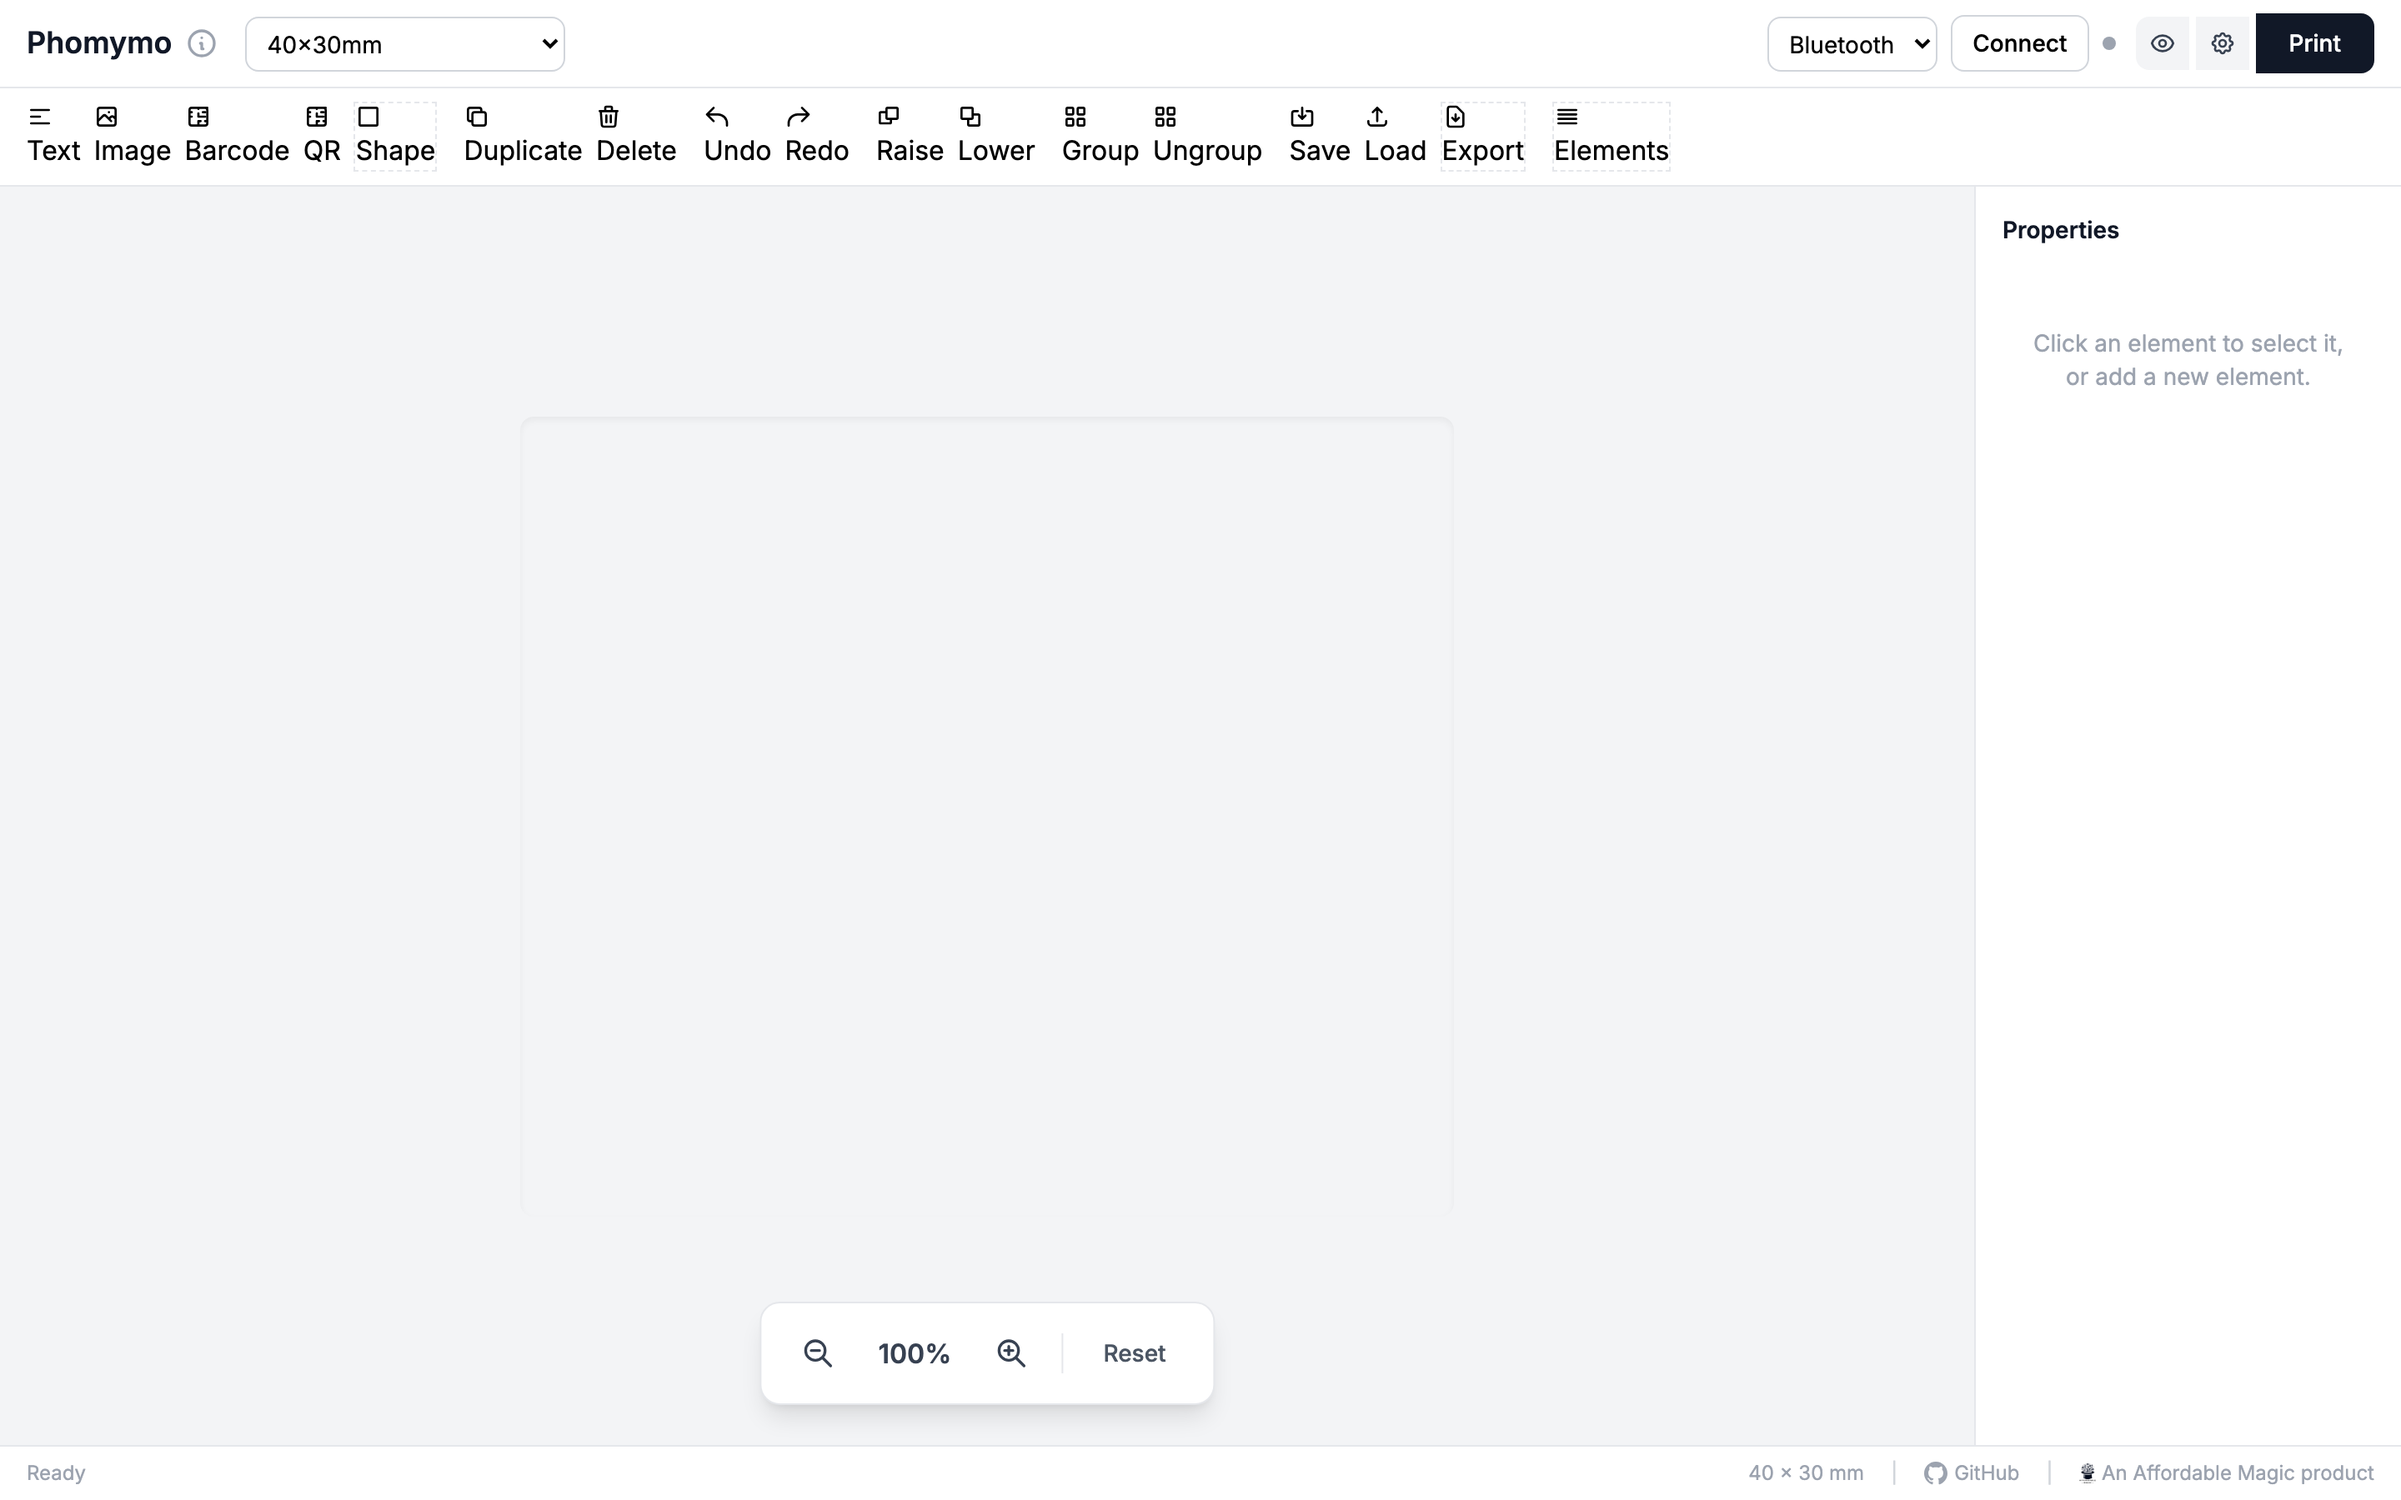
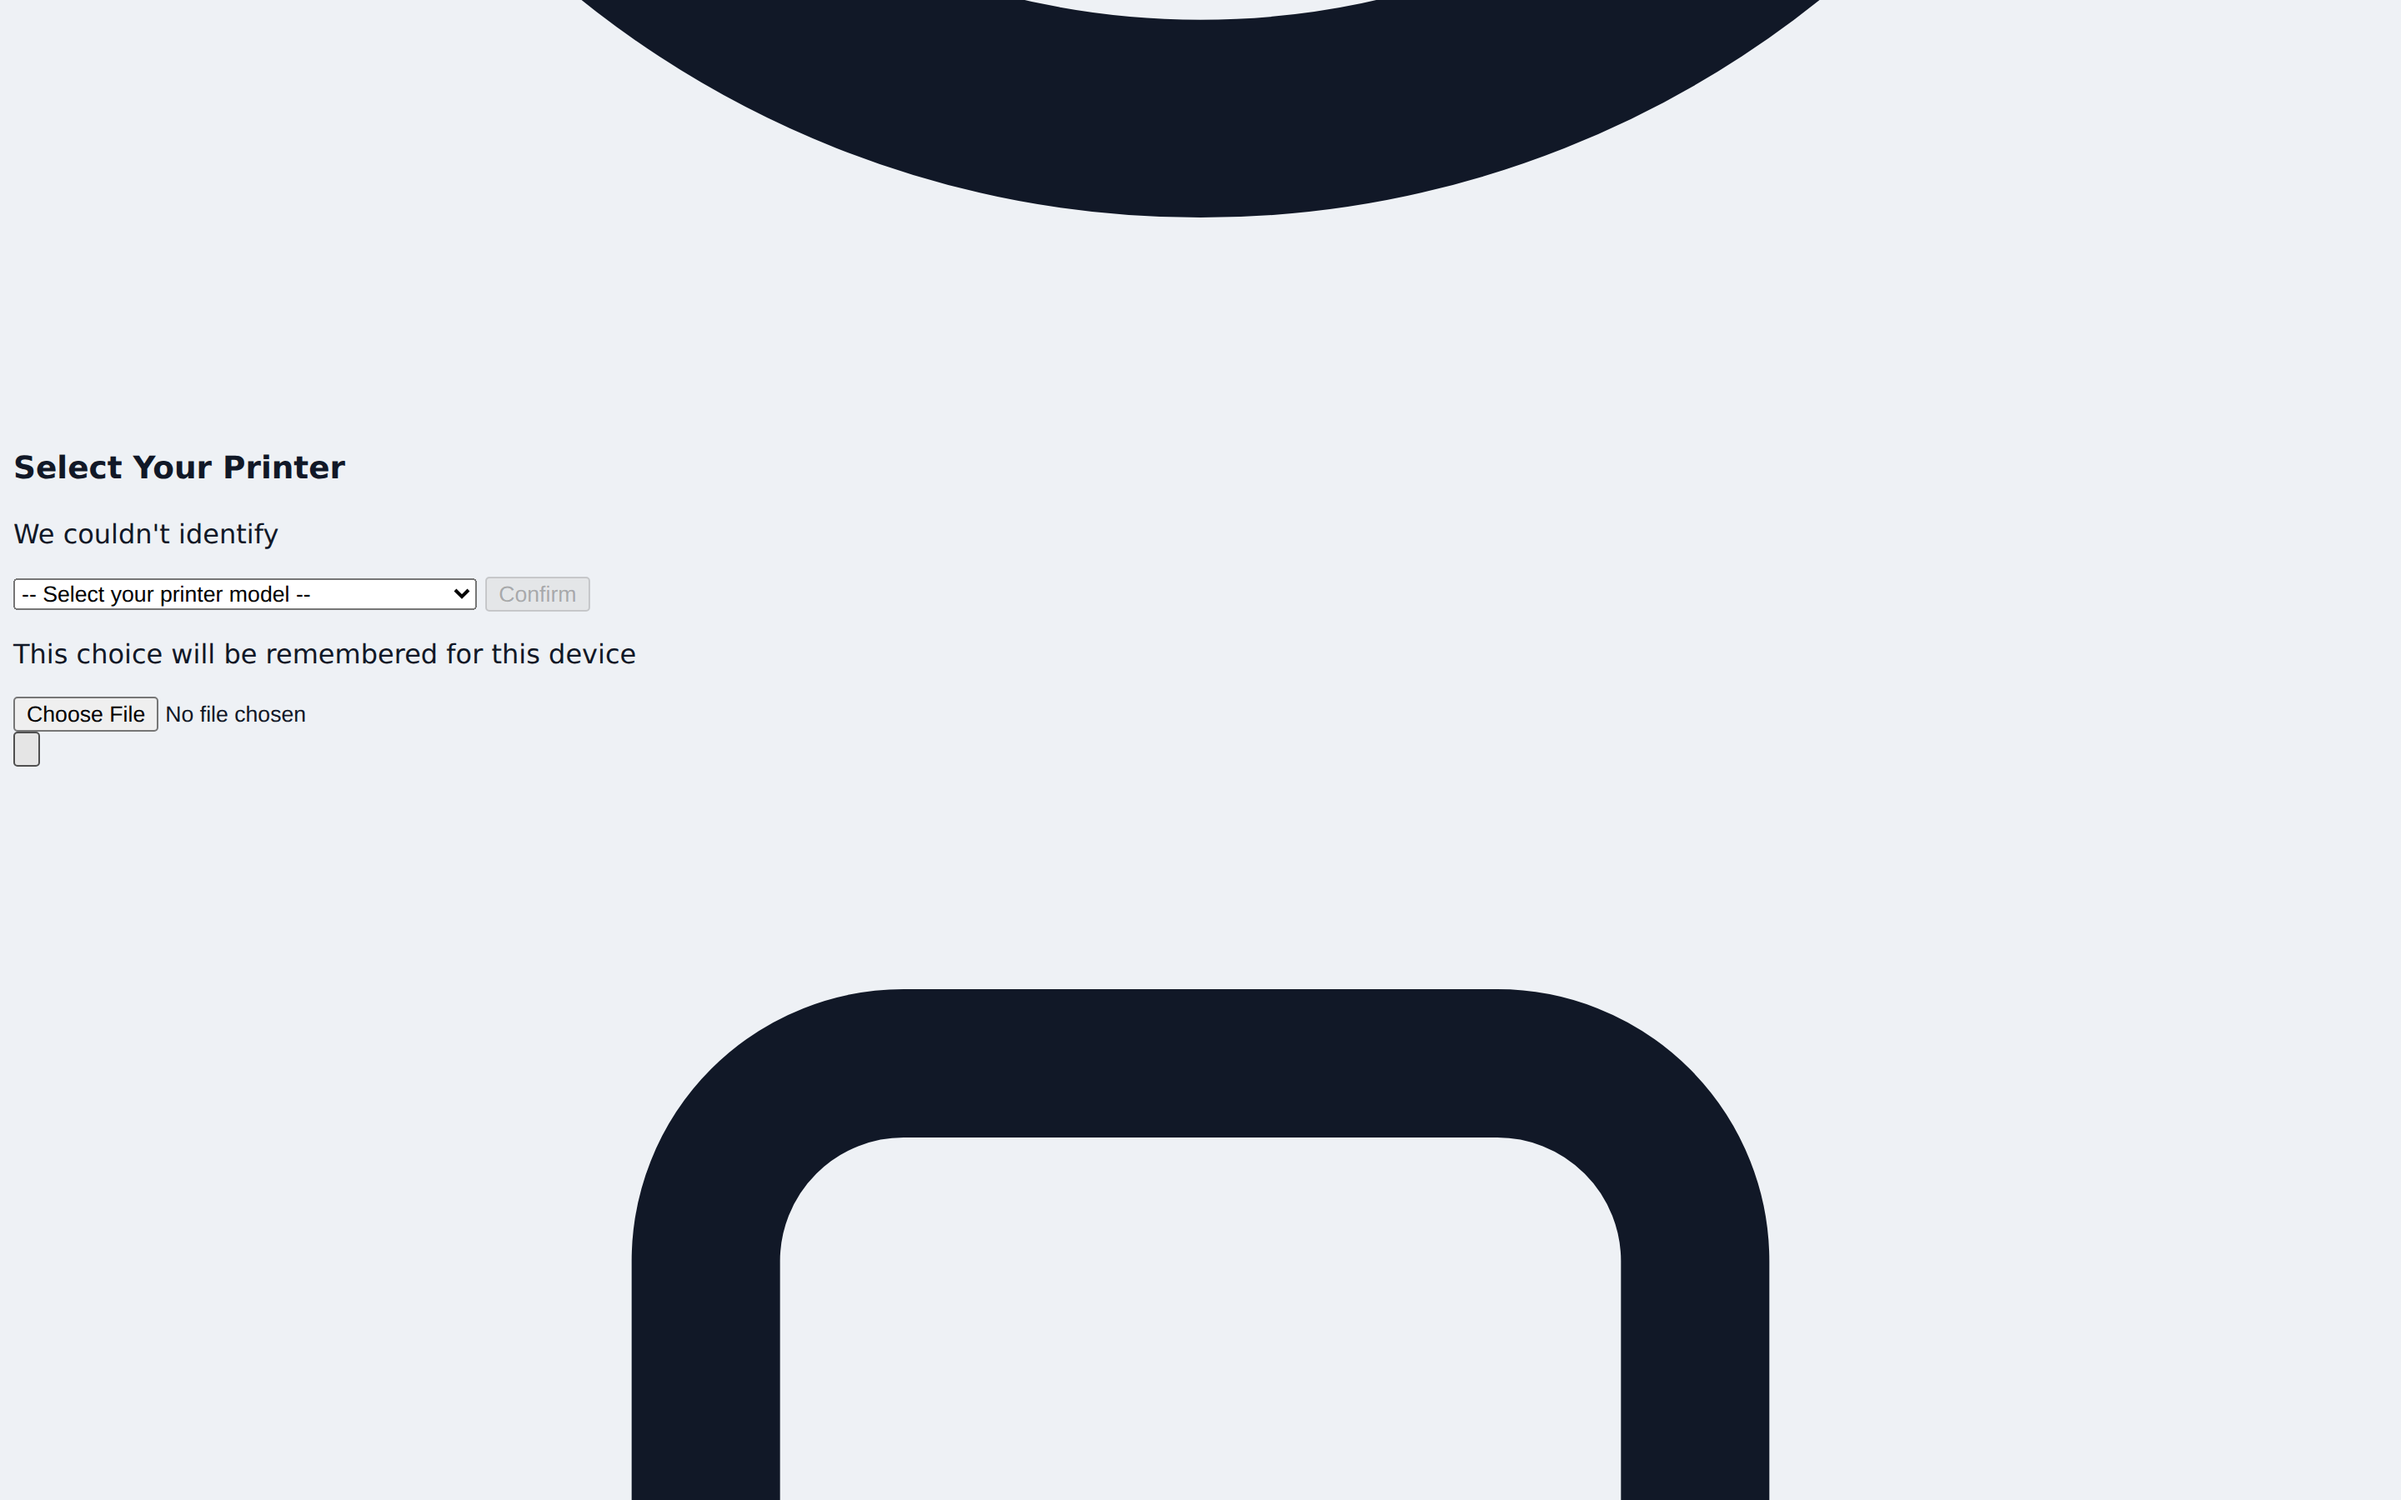
Add Vercel Web Analytics
Records page views only, with no cookies, no localStorage, no
fingerprinting and no cross-site identifier. Figures stay private to the
project owner's Vercel dashboard; nothing is surfaced in the app.

Uses the documented plain-HTML snippet rather than the @vercel/analytics
package, so the site stays a no-build static deploy with no npm runtime
dependency.

The script is served by Vercel and must also be enabled under Analytics
in the project dashboard. Until then - and always on localhost and on the
Cloudflare Pages deploy - /_vercel/insights/script.js 404s, defer
swallows the failure, and the app is unaffected. Verified: the suite runs
against a plain local server where that path does not exist, and the app
boots normally.

diff --git a/src/web/index.html b/src/web/index.html
@@ -2662,5 +2662,22 @@
       });
     });
   </script>
+
+  <!-- Vercel Web Analytics.
+
+       Page views only, collected by the host rather than by this app: no
+       cookies, no localStorage, no fingerprinting, and no identifier that
+       follows a visitor between sites. Stats are private to the project
+       owner's Vercel dashboard; nothing is exposed in this page.
+
+       The script is served by Vercel itself and only exists on a Vercel
+       deployment - it must also be switched on under Analytics in the
+       project dashboard, or the path below 404s and this no-ops. That is
+       also what happens on localhost and on the Cloudflare Pages deploy:
+       the request fails, defer swallows it, and the app is unaffected. -->
+  <script>
+    window.va = window.va || function () { (window.vaq = window.vaq || []).push(arguments); };
+  </script>
+  <script defer src="/_vercel/insights/script.js"></script>
 </body>
 </html>

diff --git a/README.md b/README.md
@@ -223,6 +223,12 @@ Two host configs live in the repo, and they do not interfere with each other:
 
 Both keep `index.html` uncached while allowing `.js` to be cached indefinitely, which is why every module is loaded through a `?v=` cache-buster.
 
+### Visitor analytics
+
+`index.html` carries the Vercel Web Analytics snippet. It records page views only - no cookies, no `localStorage`, no fingerprinting, and no cross-site identifier - and the figures are private to the project owner's Vercel dashboard. Nothing is surfaced in the app.
+
+It has to be switched on under **Analytics** in the Vercel project dashboard; until then `/_vercel/insights/script.js` 404s and the snippet does nothing. The same is true on localhost and on the Cloudflare Pages deploy, where that path does not exist at all - the request fails, `defer` swallows it, and the app is unaffected. `tests/01-getting-started.spec.ts` runs against a plain local server, so the 404 path is exercised on every test run.
+
 **When you change a module, bump its `?v=` everywhere it is imported.** Browsers hold `.js` for a year under `immutable` and will not revalidate, so a new `app.js` paired with a stale dependency fails at module-link time and the whole app goes dead - no canvas, no working buttons. Every import must carry a version, and all importers of a module must agree on it; `tests/10-module-versions.spec.ts` enforces both.
 
 
